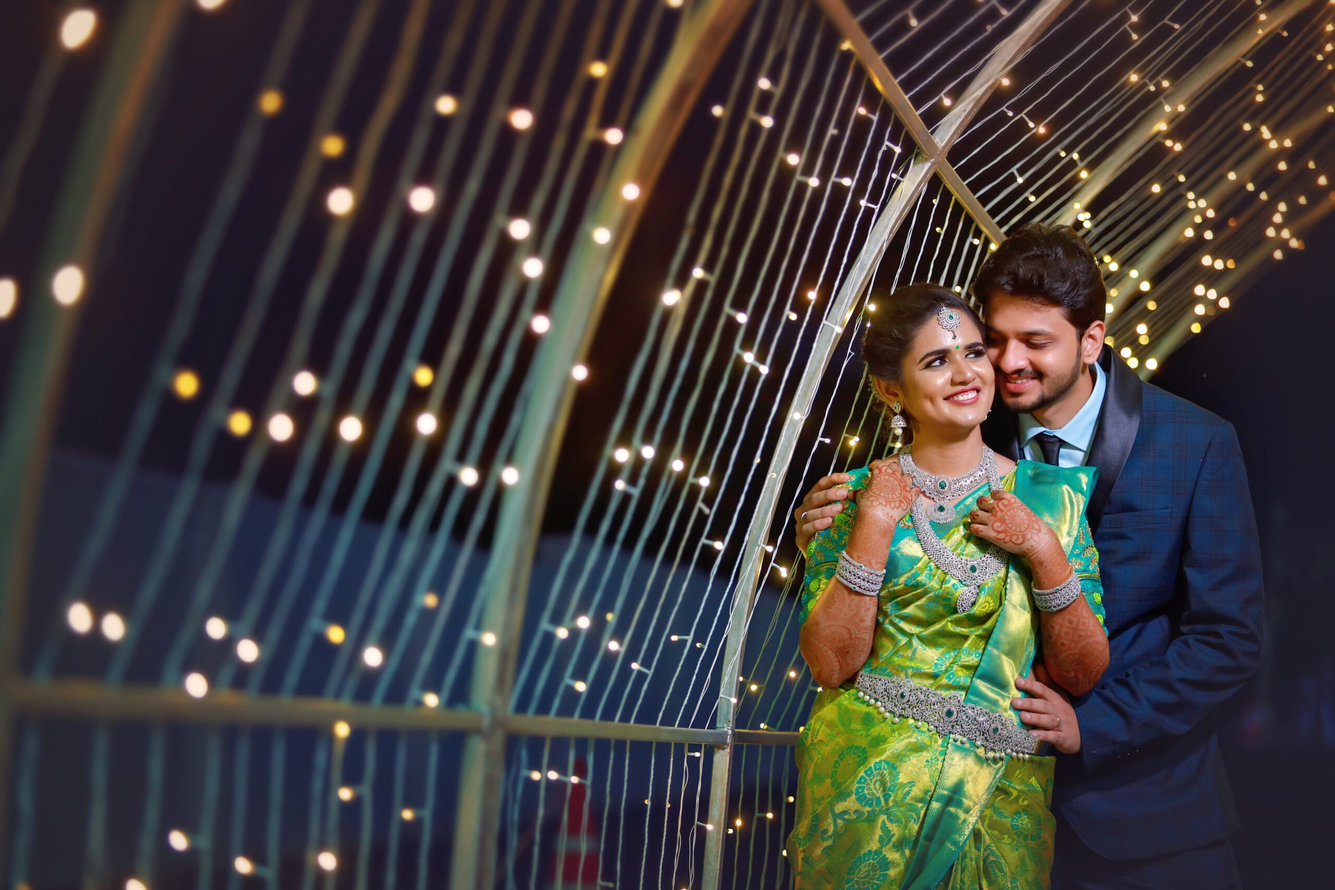
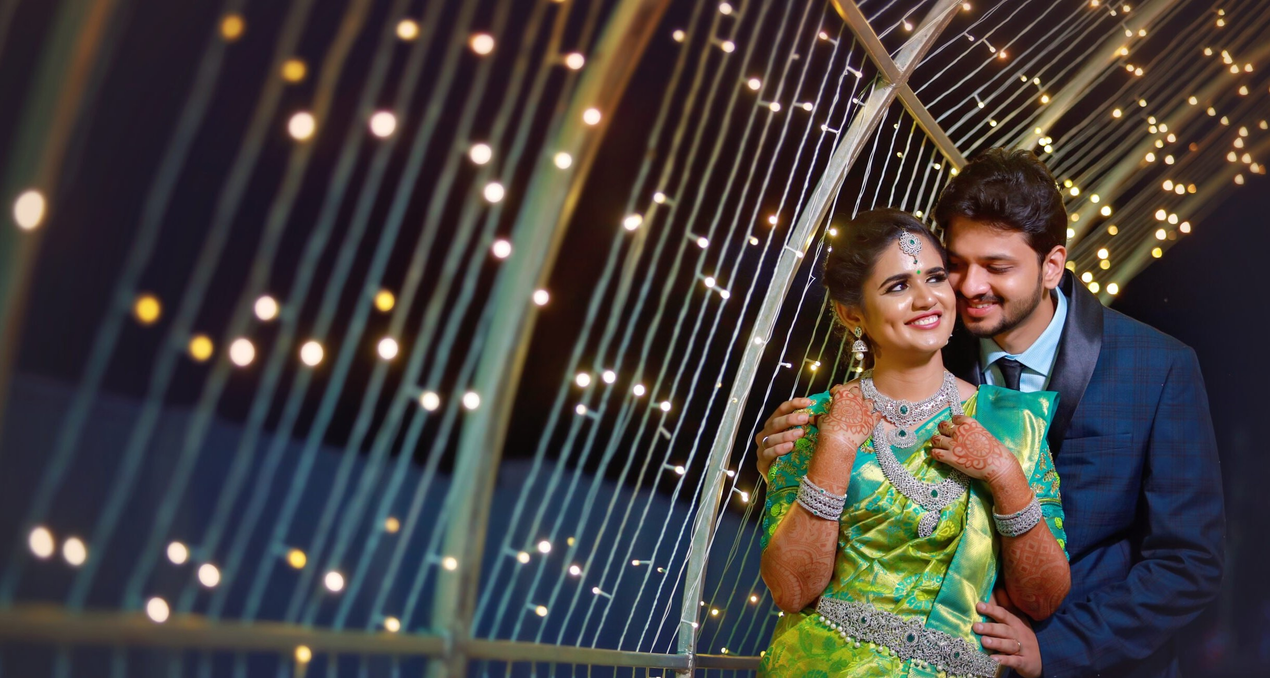
version 0.3

diff --git a/PACKAGES/Package.css b/PACKAGES/Package.css
@@ -1,3 +1,4 @@
+/* Global Reset */
 * {
     margin: 0;
     padding: 0;
@@ -5,62 +6,209 @@
 }
 
 body {
-   
-    background-image: no-repeat ;
-
+    font-family: Verdana, Geneva, Tahoma, sans-serif;
+    background-color: #f8f8f8;
 }
+
+/* Outer Wrapper */
 .outer {
     display: flex;
     flex-direction: column;
     align-items: center;
-    gap: 20px;
-}
-.outer img{
+    gap: 80px; /* Reduced gap */
     width: 100%;
-  
 }
 
-.outer h2 {
-    position: absolute;
-    top: 20vh;
-    color: white;
-    font-size: 36px;
-    font-family: 'Courier New', Courier, monospace;
-    text-shadow: 2px 2px 8px rgba(0, 0, 0, 0.6);
-}
-
-.outer h1 {
-    position: absolute;
-    top: 30vh;
-    color: white;
-    font-size: 50px;
-    font-family:Georgia, 'Times New Roman', Times, serif;
-    text-shadow: 2px 2px 8px rgba(0, 0, 0, 0.6);
-}
-
-.outer h3 {
-    position: absolute;
-    top: 40vh;
-    color: white;
-    font-size: 25px;
-    font-family:'Lucida Sans', 'Lucida Sans Regular', 'Lucida Grande', 'Lucida Sans Unicode', Geneva, Verdana, sans-serif;
-    text-shadow: 2px 2px 8px rgba(0, 0, 0, 0.6);
-}
-
-.card-container {
-    display: flex;
-    gap: 50px;
-}
-
-.card {
-    width: 300px;
-    height: 400px;
-    background: white;
+/* Inner Section */
+.inner {
+    width: 100%;
+    height: 100vh; /* Full viewport height */
+    position: relative;
     display: flex;
     justify-content: center;
     align-items: center;
-    font-size: 24px;
+}
+
+/* Fullscreen Background Image */
+.inner img {
+    width: 100%;
+    height: 100%;
+    object-fit: cover;
+    position: absolute;
+    top: 0;
+    left: 0;
+}
+
+/* Text Overlay */
+.inner h2, .inner h1, .inner h3 {
+    position: absolute;
+    color: white;
+    text-shadow: 2px 2px 8px rgba(0, 0, 0, 0.6);
+    animation: fadeInUp 1.5s ease-in-out;
+}
+
+/* Positioning for Text */
+.inner h2 { 
+    top: 40vh; 
+    font-size: 30px; 
+    left: 15%; }
+.inner h1 { 
+    top: 48vh; 
+    font-size: 70px; 
+    left: 10%; }
+.inner h3 { 
+    top: 62vh;
+     font-size: 20px; 
+     left: 15%; }
+
+/* Card Container */
+.card-container {
+    display: flex;
+    flex-wrap: wrap;
+    justify-content: center;
+    align-items: center;
+    gap: 40px; /* Reduced gap */
+    width: 90%;
+    padding: 30px 10px;
+    max-width: 1200px;
+    text-align: center;
+}
+
+/* Service Packages Text */
+.card-container h2 {
+    width: 100%;
+    font-size: 35px;
     font-weight: bold;
+    margin-bottom: 20px; /* Reduced gap */
+    text-transform: uppercase;
+}
+
+/* Cards */
+
+.card:hover {
+    transform: scale(1.05);
+}
+/* Cards */
+.card1, .card2, .card3, .card4 {
+    width: 260px;
+    height: 360px;
+    background: grey;
+    display: flex;
+    flex-direction: column;  /* Stack items vertically */
+    justify-content: center; /* Center content vertically */
+    align-items: center; /* Center content horizontally */
+    text-align: center; /* Ensure text is centered */
+    padding: 20px; /* Add padding */
     box-shadow: 0 4px 8px rgba(0, 0, 0, 0.2);
-    border-radius: 15px;
+    border-radius: 8px;
+    transition: transform 0.3s ease;
+}
+
+/* Ensure consistent styling for text */
+.card1 h3, .card2 h3, .card3 h3, .card4 h3 {
+    font-size: 25px;
+    margin-bottom: 30px; /* Space below heading */
+    color: black; /* Better contrast */
+    text-transform: uppercase;
+    font-style: oblique;
+    font-weight: bold;
+}
+
+.card1 p, .card2 p, .card3 p, .card4 p {
+    font-size: 16px;
+    line-height: 1.3;
+    color: black; /* Better contrast */
+}
+
+
+
+/* Responsive for inner and card-container */
+
+/* Tablets */
+@media (max-width: 1024px) {
+    .outer { gap: 50px; } /* Reduce space */
+
+    .inner h1 { 
+        font-size: 60px; 
+        top: 42vh;
+     }
+    .inner h2 { 
+        font-size: 25px; 
+        top: 34vh; 
+    }
+    .inner h3 {
+         font-size: 18px;
+          top: 55vh;
+         }
+}
+
+/* Mobile Screens */
+@media (max-width: 768px) {
+    .outer { 
+        gap: 30px; 
+    } /* Reduce space further */
+    .inner {
+         height: 60vh;
+         }
+
+    .inner h1 { 
+        font-size: 45px; 
+        top: 28vh;
+         left: 8%;
+         }
+    .inner h2 {
+         font-size: 22px; 
+         top: 22vh;
+          left: 10%; 
+        }
+    .inner h3 { 
+        font-size: 16px;
+         top: 38vh;
+          left: 10%; 
+        }
+
+    .card-container {
+         flex-direction: column; 
+        }
+    .card-container h2 {
+         font-size: 28px;
+        }
+    .card {
+         width: 60%;
+          height: 350px; 
+        }
+}
+
+/* Small Phones */
+@media (max-width: 480px) {
+    .outer {
+         gap: 20px;
+         } /* Minimal gap */
+    .inner { 
+        height: 50vh; 
+    }
+
+    .inner h1 {
+         font-size: 35px;
+          top: 25vh;
+           left: 5%;
+         }
+    .inner h2 { 
+        font-size: 18px;
+         top: 18vh; 
+         left: 7%; 
+        }
+    .inner h3 { 
+        font-size: 14px; 
+        top: 32vh;
+         left: 8%; 
+        }
+
+    .card-container h2 {
+         font-size: 22px; 
+        }
+    .card {
+         width: 90%;
+          height: 300px;
+         }
 }

diff --git a/PACKAGES/Package.html b/PACKAGES/Package.html
@@ -5,19 +5,72 @@
     <meta name="viewport" content="width=device-width, initial-scale=1.0">
     <title>Packages</title>
     <link rel="stylesheet" href="Package.css">
-
 </head>
 <body>
     <div class="outer">
-    <img src="coverimg.jpg" alt="">
-    <h2>PHOTOS & VIDEOS</h2>
-    <h1>Packages</h1>
-    <h3>Crafting your moments</h3>
+        <div class="inner">
+            <img src="coverimg.jpg" alt="Cover Image">
+            
+                <h2>PHOTOS & VIDEOS</h2>
+                <h1>Packages</h1>
+                <h3>Crafting your moments</h3>
+            
+        </div>
         <div class="card-container">
-            <div class="card">1</div>
-            <div class="card">2</div>
-            <div class="card">3</div>
+            <h2>Service Packages</h2>
+
+            <div class="card1">
+                <h3>Outdoor Shoot</h3>
+               <p> 1 Candid Photographer <br> <br>
+                
+                3 to 5 Hours Coverage <br> <br>
+                
+                Soft copy of Unlimited Original Pictures <br> <br>
+                1 Magazine Album with 25 Best Pictures</p>
+            </div>
+            
+            <div class="card2">
+                <h3>B’day Party</h3>
+               <p> 1 Traditional Photographer
+                <br> <br>
+                1 Traditional Videographer <br> <br>
+                
+                3 to 5 Hours Coverage <br> <br>
+                
+                Soft copy of Unlimited Original Pictures <br> <br>
+                Full Length Video with Crisp Edits
+                </p>
+                
+                
+                </div>
+
+            <div class="card3">
+                
+                <h3>SAVE THE DATE</h3>
+                <p>1 Candid Photographer <br> <br>
+                    1 Cinematographer <br> <br>
+    
+                    3 to 5 Hours Coverage <br> <br>
+    
+                    20 to 40 Sec Teaser with 1 Song <br> <br>
+                Photo Poster with Wedding Invitation 
+    </p>
+
+            </div>
+
+            <div class="card4">
+                <h3>Wedding & Corporate Events</h3>
+              <p>  Customized Team Size <br> <br>
+                
+                8 to 12 Hours Coverage <br> <br>
+                
+                Call us to know more about this package <br> <br>
+              </p>  
+                
+            </div>
+
         </div>
     </div>
 </body>
 </html>
+
